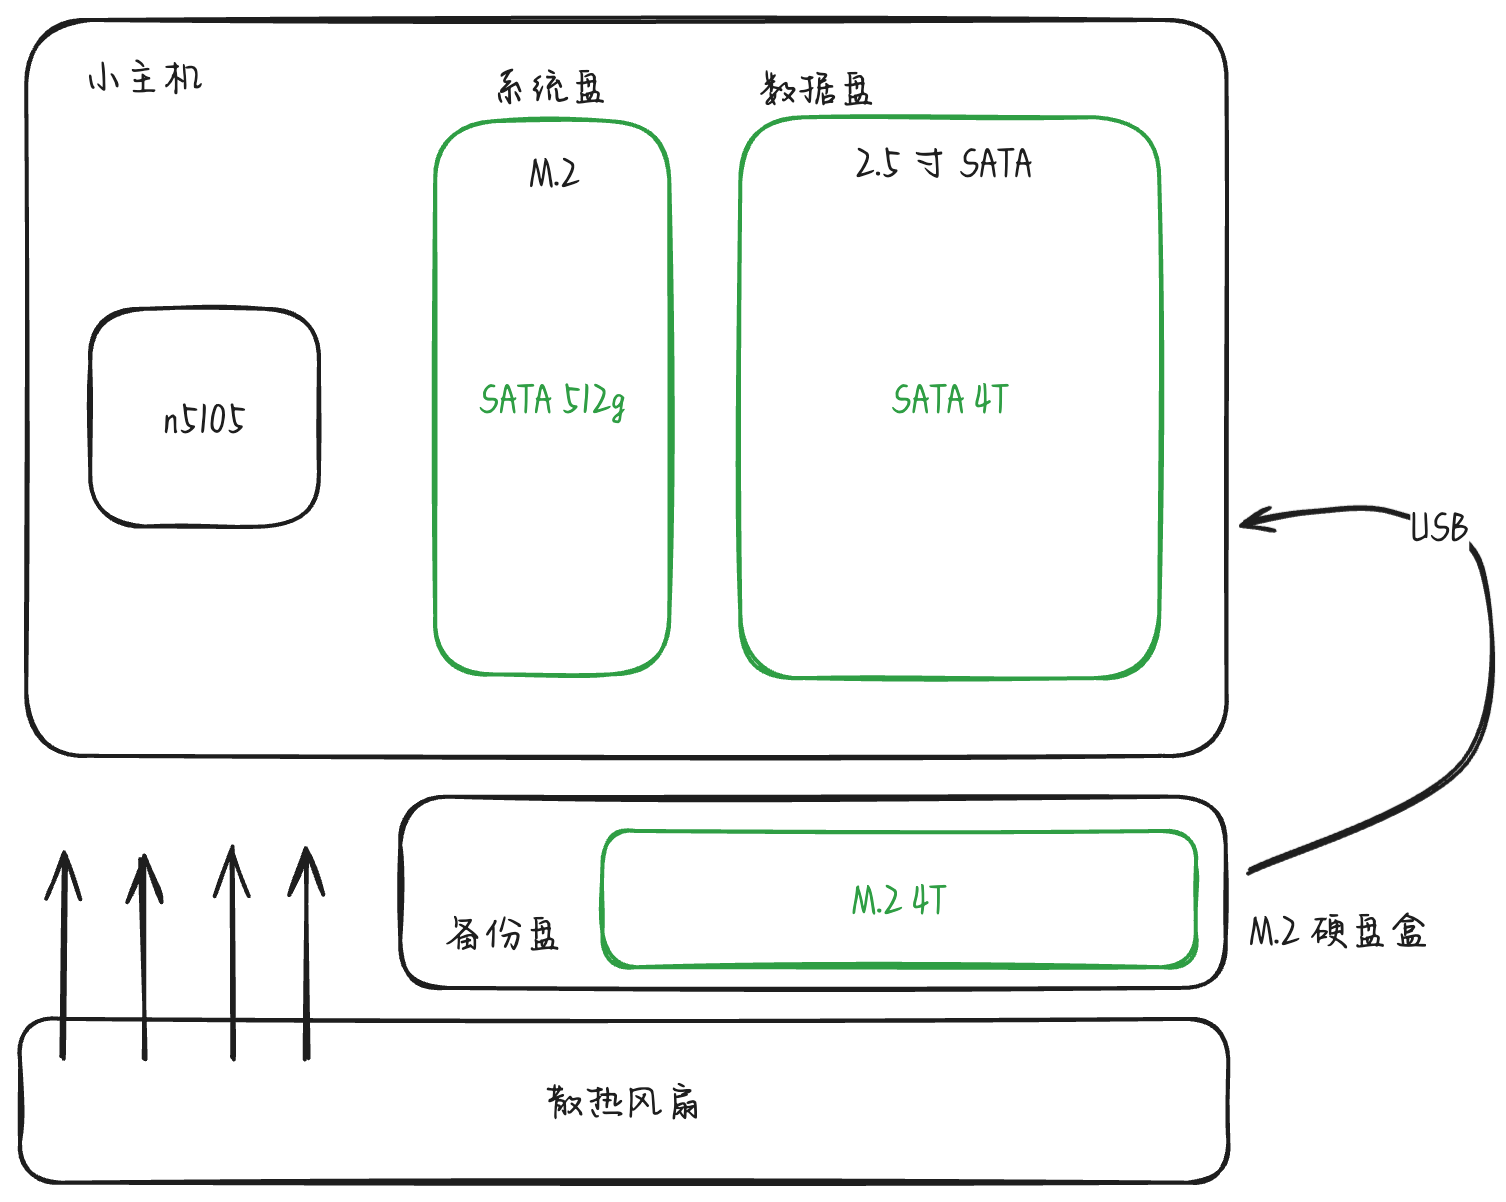
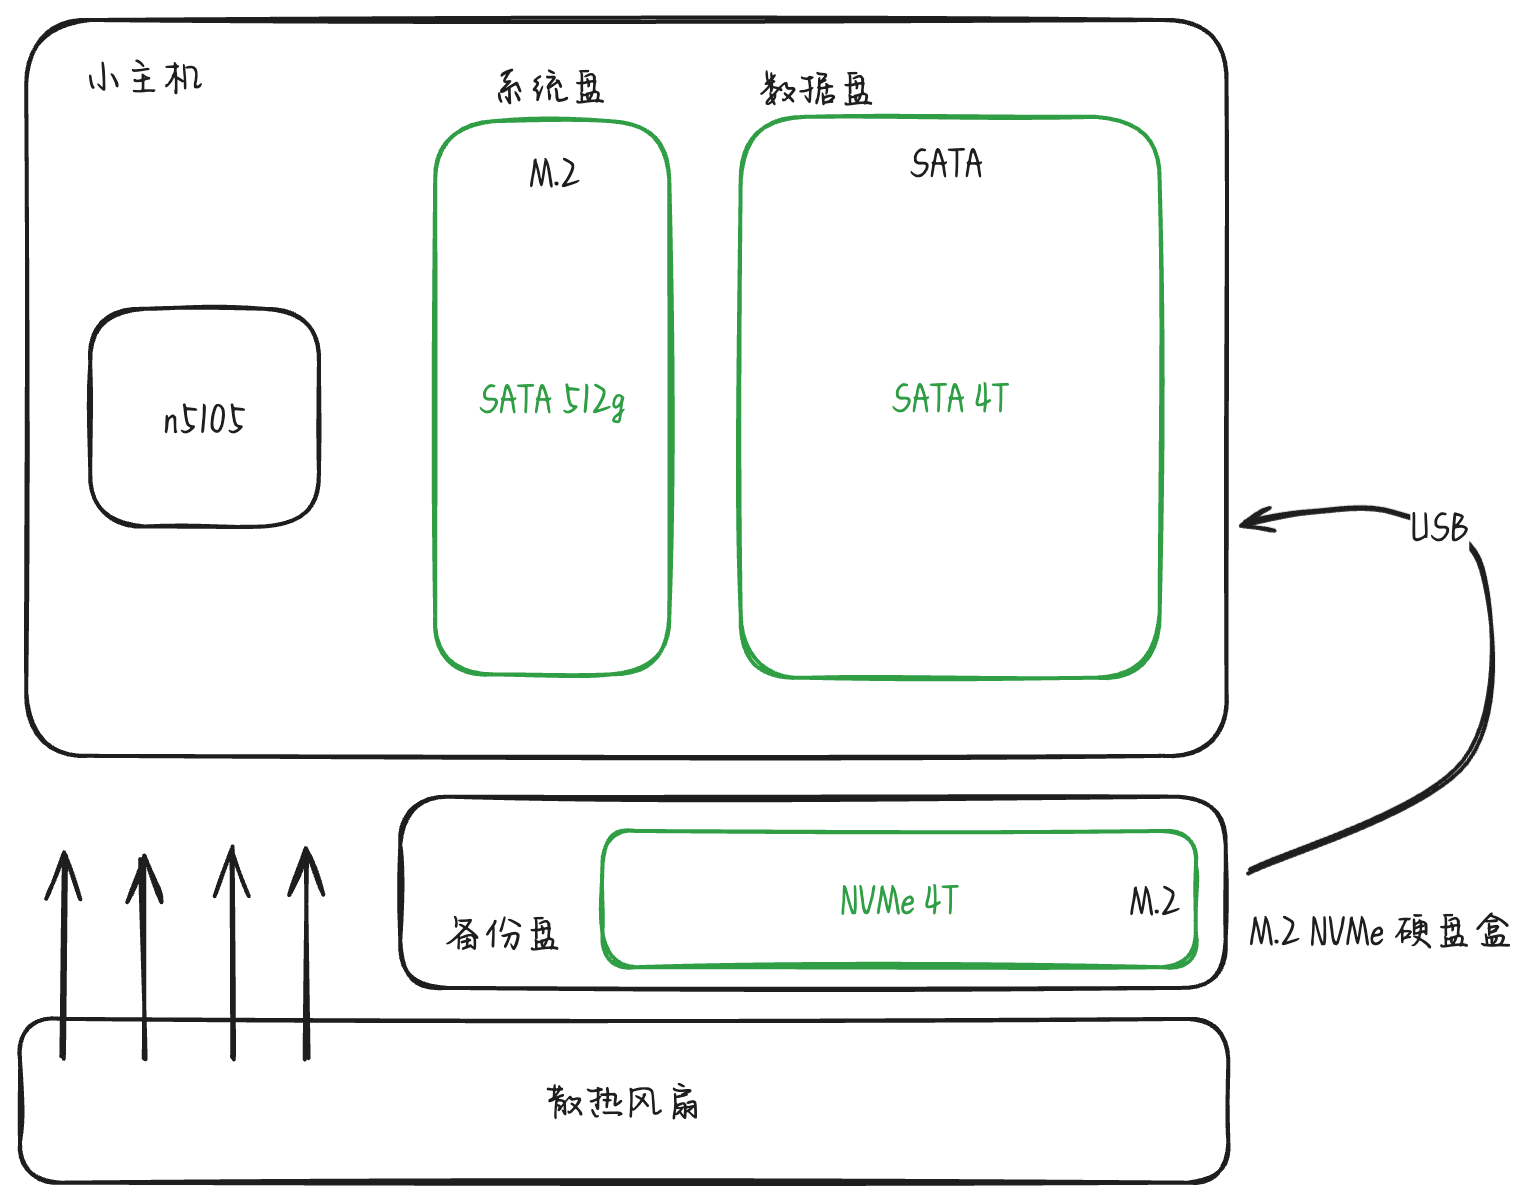
shebang_in_js

diff --git a/articles/shebang_in_js/index.md b/articles/shebang_in_js/index.md
@@ -1,0 +1,88 @@
+---
+title: 'JS 中的 Shebang/Hashbang'
+publish_time: '2023-12-13'
+updates:
+hidden: false
+---
+
+把一段 Shell 脚本保存成文本文件:
+
+```sh
+# hello.sh
+echo 'Hello World'
+```
+
+我们可以通过两种方式运行, 第一种是 Shell 命令加脚本文件:
+
+```sh
+sh hello.sh
+bash hello.sh
+zsh hello.sh
+```
+
+第二种是赋予脚本文件可执行权限直接执行:
+
+```sh
+chmod +x hello.sh
+./hello.sh
+```
+
+对于 JS 脚本文件, 我们通常是通过命令加脚本文件的方式:
+
+```js
+// index.js
+console.log('Hello World');
+```
+
+```sh
+node index.js
+```
+
+如果赋予 JS 脚本可执行权限直接运行会提示错误:
+
+```sh
+chmod +x index.js
+./index.js
+# ./index.js: line 1: syntax error near unexpected token `"Hello World"'
+# ./index.js: line 1: `console.log("Hello World");'
+```
+
+这是因为直接执行脚本文件默认调用的是当前 Shell, 而 JS 不是合法的 Shell 语法. 不过在类 Unix 系统中, 存在一种称为 Shebang 的语法, 在脚本文件开头以 `#!` 开头加上解释器指令, 当前脚本将会以指定的解释器执行, 例如下面的例子, 将会调用 `zsh` 执行, 当然也可以修改成其他的 Shell 程序, 比如 `#!/bin/sh`/`#!/bin/bash`.
+
+> Shebang 由 Sharp 和 Bang 两部分组成, 在 Unix 中 `#` 常常被称为 Sharp, 比如微软推出的编程语言 `C#` 读作 `C Sharp`, 而 `!` 被称为 Bang. 此外 Shebang 也被称为 Hashbang, 因为 `#` 也被称为 Hash.
+
+```sh
+#!/bin/zsh
+echo 'Hello World'
+```
+
+所以对于上面的 JS 脚本, 我们可以添加 Shebang 指定 node 运行:
+
+```js
+#!/usr/bin/node
+console.log('Hello World');
+```
+
+每个人的环境都不一样, 如果 node 不位于 `/usr/bin/node` 怎么办? 一般来说有两种方法, 第一是通过 `where` 查找 node 所在的位置:
+
+```sh
+where node
+# /opt/homebrew/bin/node
+```
+
+另一种方法是通过 `env`, `env` 能够帮我们找到正确的解释器:
+
+```js
+#!/usr/bin/env node
+console.log('Hello World');
+```
+
+Shebang 能够在 Shell 中正常地发挥作用, 是因为 `#` 是 Shell 脚本中的注释语法, 解释器会忽略 Shebang 从而正常执行. 但是 `#` 在 JS 中不是合法的注释, 所以 node 或者 deno 这些 JS 运行时需要特殊处理从而达到兼容 Shebang 的目的.
+
+不同于 node 或者 deno 的特殊处理, 浏览器中的 JS 引擎并不会识别到 Shebang, 如果一个 JS 脚本带有 Shebang 会被浏览器认为是语法错误. 为了解决这个问题, ECMAScript 2023 中正式通过了 [Hashbang 提案](https://github.com/tc39/proposal-hashbang).
+
+为什么称为 `Hashbang` 而不是 `Shebang`, 主要是因为 JS 中 `#` 通常称为 `Hash` 而不是 `Sharp`.
+
+目前基本所有的浏览器都支持了 Hashbang, 对于服务端和客户端同构的 JS 脚本我们不需要再关心 Hashbang 的问题.
+
+![Alt text](./compatibility.png)

diff --git a/articles/my_nas/index.md b/articles/my_nas/index.md
@@ -10,10 +10,10 @@ hidden: false
 首先说下我的需求, 主要是影音 + 数据备份, 对容量和性能的要求不高, 所以这套方案所有硬件以及组合如下:
 
 - 一台 n5105 的小主机
-- 一条 SATA 512G 固态
+- 一条 M.2 SATA 512G 固态
 - 一块 2.5 寸 SATA 4T 固态
-- 一条 M.2 4T 固态
-- 一个 M.2 硬盘盒
+- 一条 M.2 NVMe 4T 固态
+- 一个 M.2 NVMe 硬盘盒
 - 一个散热风扇
 
 ![硬件组合](./hardware.png)
@@ -22,7 +22,7 @@ hidden: false
 
 ![侧背面](./side.jpeg)
 
-一般来说 M.2 的固态才是潮流, 不过在购买小主机的时候没注意参数, 后面才发现只支持 SATA 固态. 小主机本身有内置风扇, 不过转码的时候机身还是会发烫, 所以额外搞了个外置风扇, 同时还能给外置的 M.2 固态硬盘散热.
+一般来说 M.2 NVMe 的固态才是潮流, 不过在购买小主机的时候没注意参数, 后面才发现只支持 SATA 固态. 小主机本身有内置风扇, 不过转码的时候机身还是会发烫, 所以额外搞了个外置风扇, 同时还能给外置的 M.2 NVMe 固态硬盘散热.
 
 这套方案只有三个硬盘, 512g 的作为系统盘, 两条 4T 一条作为数据盘另一条作为数据盘的备份, 所以实际可用空间是 4T. 虽然有点少, 不过对于我这种轻 NAS 用户来说足够了.
 
